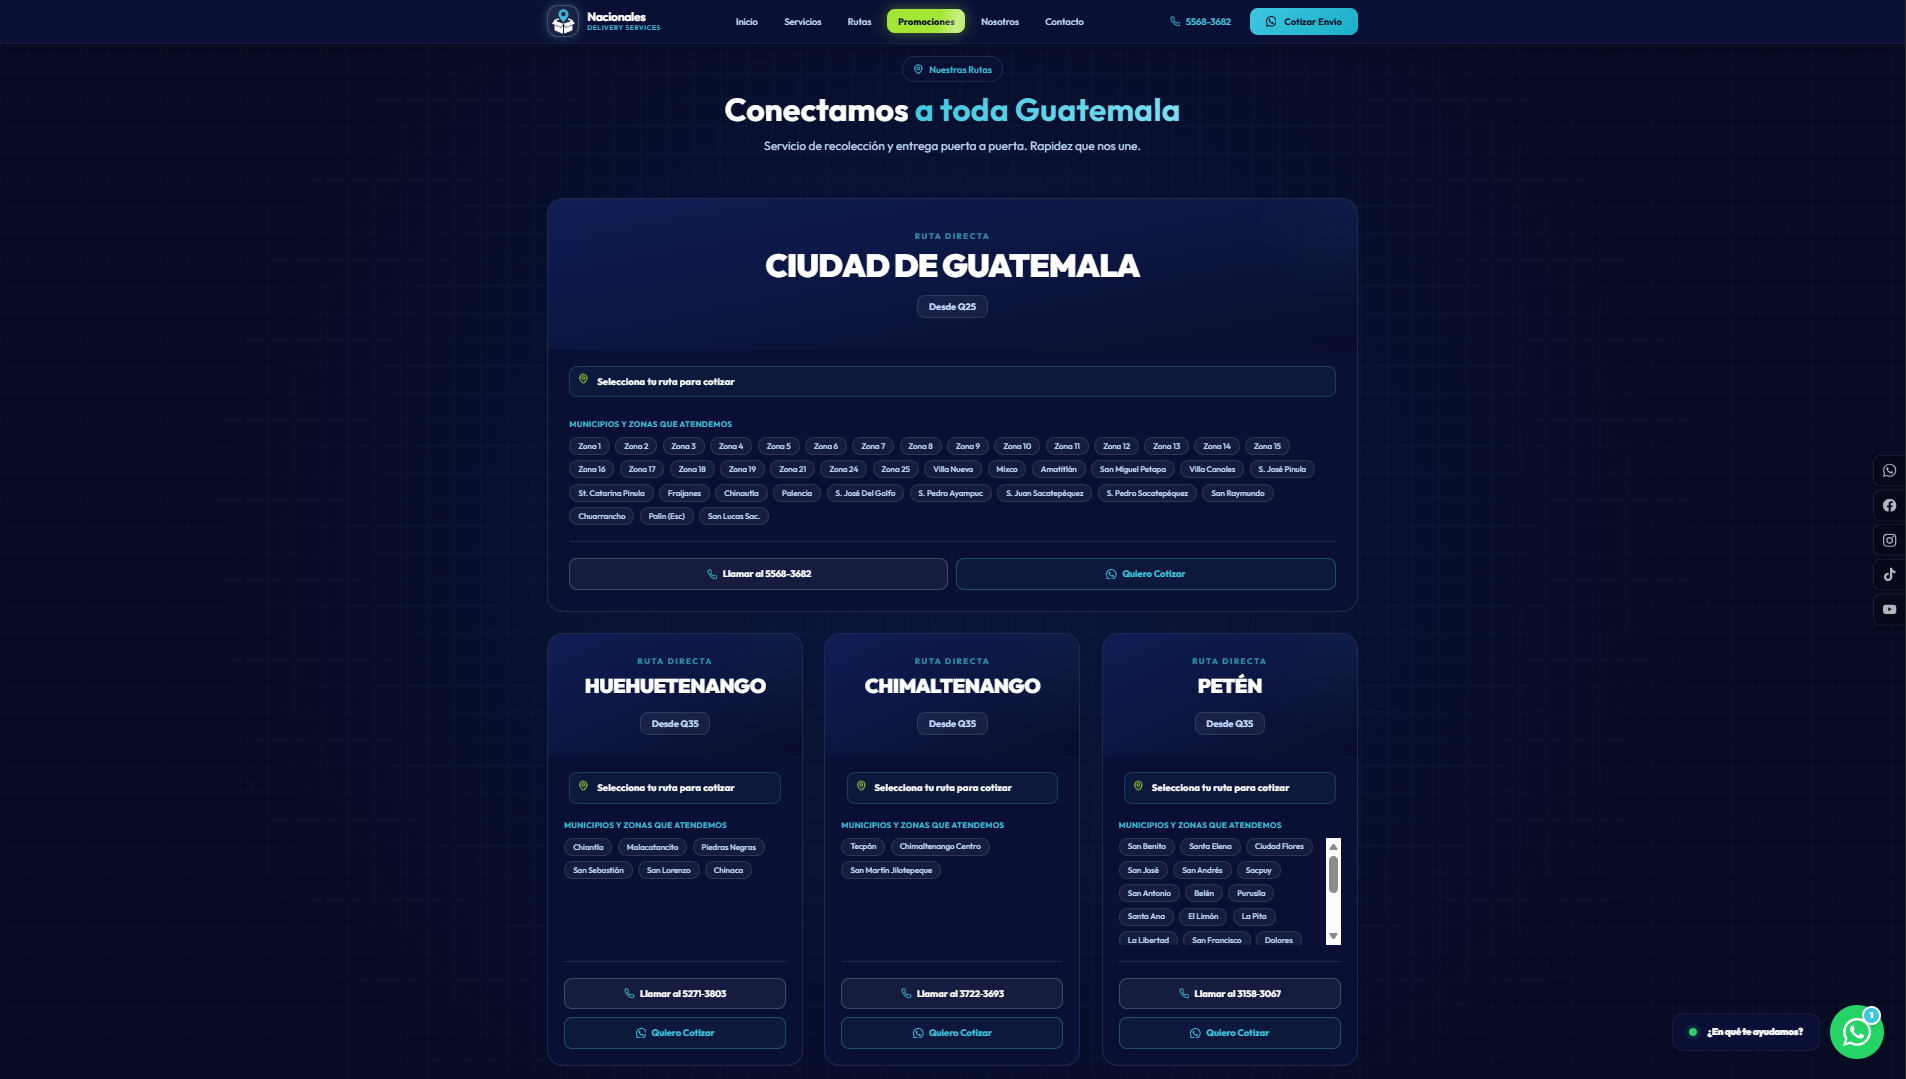
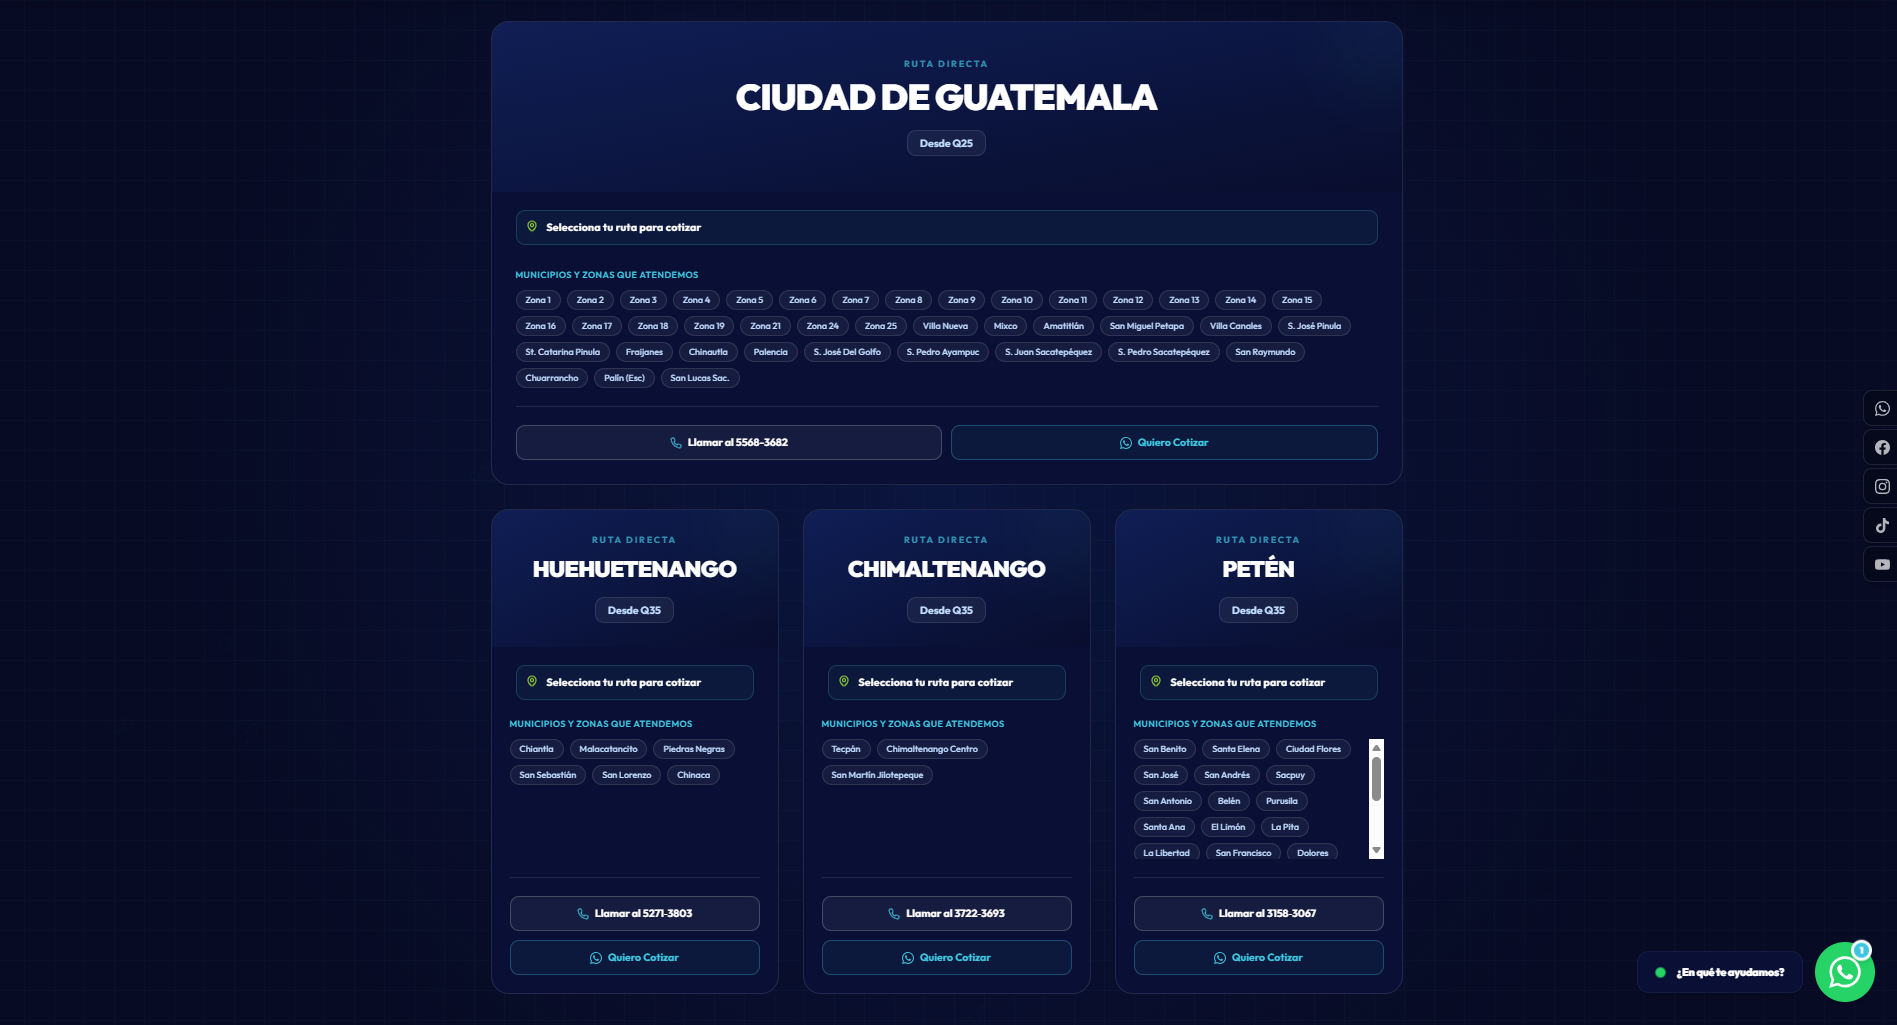
corections litle

diff --git a/src/app/Components/projects/projects.component.ts b/src/app/Components/projects/projects.component.ts
@@ -37,7 +37,7 @@ export class ProjectsComponent implements OnInit, OnDestroy, AfterViewInit {
         '/images/NDS7.png',
         '/images/NDS8.png',
       ],
-      technologies: ['React 18', 'Vite', 'TailwindCSS', 'EmailJS', 'Vercel', 'Vibe Coding'],
+      technologies: ['React 18', 'Vite', 'TailwindCSS', 'EmailJS', 'Vercel'],
       links: {
         preview: 'https://nacionalesdeliveryservices.com/',
         code2: 'https://github.com/implementacionnacionalesds2026/NacionalesDeliveryServicesWeb',
